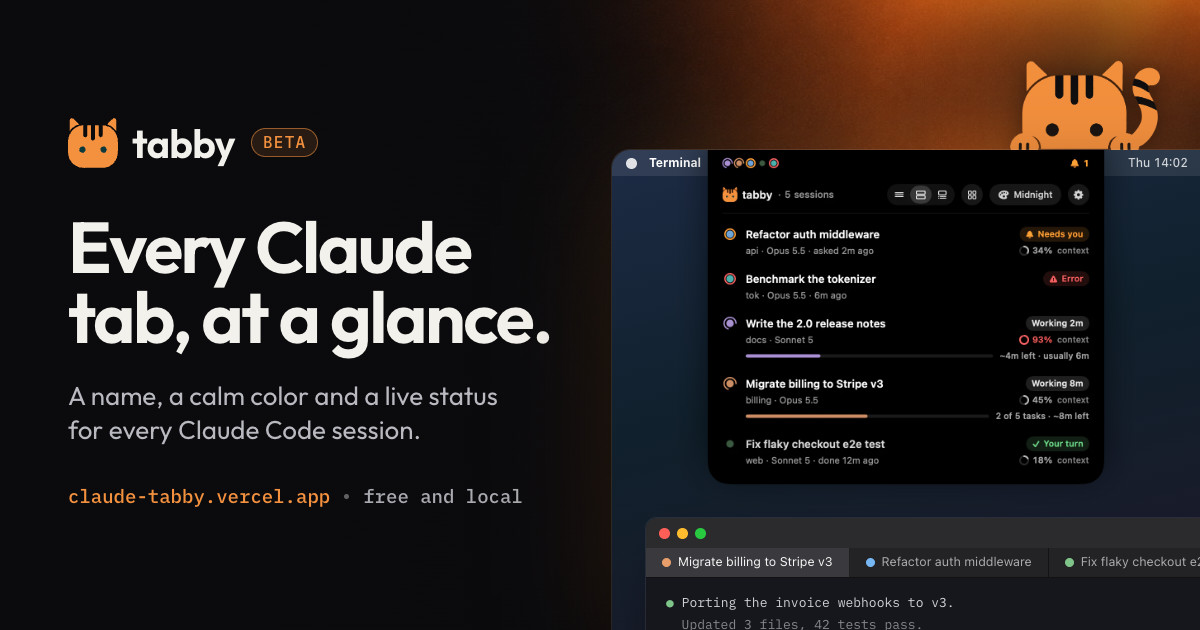
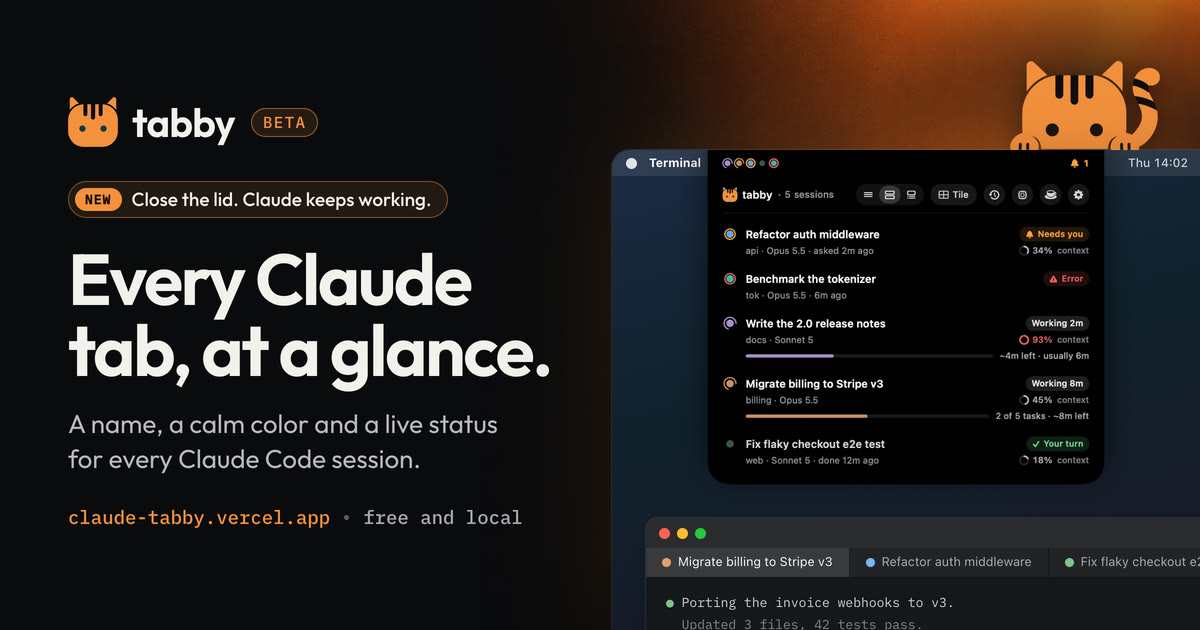
site: social card says what's new
Claude-Session: https://claude.ai/code/session_015b5oNbYrBUp2FJnxKCXLaE

diff --git a/site/index.html b/site/index.html
@@ -16,16 +16,16 @@
 <meta property="og:description" content="tabby is a free Claude Code plugin: an AI-written name, a calm color and a live status for every session, and a Mac island that shows them all. Close the lid and Claude keeps working. Runs on your machine.">
 <meta property="og:type" content="website">
 <meta property="og:url" content="https://claude-tabby.vercel.app/">
-<meta property="og:image" content="https://claude-tabby.vercel.app/assets/og.jpg?v=20261005a">
+<meta property="og:image" content="https://claude-tabby.vercel.app/assets/og.jpg?v=20261011a">
 <meta property="og:image:type" content="image/jpeg">
 <meta property="og:image:width" content="1200">
 <meta property="og:image:height" content="630">
-<meta property="og:image:alt" content="tabby (beta): Every Claude tab, at a glance. A Mac screen with Tabby Island open, listing five Claude Code sessions with their names, colors and status, above a Terminal window with named tabs; the tabby cat peeks over the screen.">
+<meta property="og:image:alt" content="tabby (beta): Every Claude tab, at a glance. New: close the lid, Claude keeps working. A Mac screen with Tabby Island open, listing five Claude Code sessions with their names, colors and status, above a Terminal window with named tabs; the tabby cat peeks over the screen.">
 <meta name="twitter:card" content="summary_large_image">
 <meta name="twitter:title" content="tabby: every Claude Code tab, at a glance">
 <meta name="twitter:description" content="tabby is a free Claude Code plugin: an AI-written name, a calm color and a live status for every session, and a Mac island that shows them all. Close the lid and Claude keeps working. Runs on your machine.">
-<meta name="twitter:image" content="https://claude-tabby.vercel.app/assets/og.jpg?v=20261005a">
-<meta name="twitter:image:alt" content="tabby (beta): Every Claude tab, at a glance. A Mac screen with Tabby Island open, listing five Claude Code sessions with their names, colors and status, above a Terminal window with named tabs; the tabby cat peeks over the screen.">
+<meta name="twitter:image" content="https://claude-tabby.vercel.app/assets/og.jpg?v=20261011a">
+<meta name="twitter:image:alt" content="tabby (beta): Every Claude tab, at a glance. New: close the lid, Claude keeps working. A Mac screen with Tabby Island open, listing five Claude Code sessions with their names, colors and status, above a Terminal window with named tabs; the tabby cat peeks over the screen.">
 <link rel="icon" href="/assets/favicon.svg?v=20260928a" type="image/svg+xml">
 <link rel="icon" href="/assets/favicon-32.png?v=20260928a" sizes="32x32" type="image/png">
 <link rel="icon" href="/assets/favicon-16.png?v=20260928a" sizes="16x16" type="image/png">

diff --git a/site/tools/og/og.html b/site/tools/og/og.html
@@ -18,9 +18,11 @@
   .og-brand { display: flex; align-items: center; gap: 14px; font-size: 40px; font-weight: 650; letter-spacing: -0.02em; line-height: 1; }
   .og-brand img { width: 50px; height: 50px; }
   .og-beta { margin-left: 2px; padding: 5px 11px 6px; border: 1.5px solid rgb(244 145 62 / 0.55); border-radius: 999px; background: rgb(244 145 62 / 0.12); color: var(--marmalade); font: 500 16px/1 var(--mono); letter-spacing: 0.08em; text-transform: uppercase; }
-  .og-title { margin: 44px 0 0; font-size: 72px; font-weight: 650; line-height: 0.98; letter-spacing: -0.035em; }
-  .og-sub { margin: 26px 0 0; max-width: 460px; font-size: 26px; line-height: 1.32; color: #b9bac0; }
-  .og-foot { display: flex; align-items: center; gap: 14px; margin-top: 40px; font: 500 19px/1 var(--mono); color: var(--marmalade); }
+  .og-new { display: inline-flex; align-self: flex-start; align-items: center; gap: 10px; margin-top: 34px; padding: 6px 16px 6px 6px; border: 1.5px solid rgb(244 145 62 / 0.45); border-radius: 999px; background: rgb(244 145 62 / 0.1); font: 500 19px/1.2 var(--display); color: var(--text); }
+  .og-new b { padding: 5px 10px; border-radius: 999px; background: var(--marmalade); color: #1a0e04; font: 600 13px/1 var(--mono); letter-spacing: 0.08em; text-transform: uppercase; }
+  .og-title { margin: 26px 0 0; font-size: 72px; font-weight: 650; line-height: 0.98; letter-spacing: -0.035em; }
+  .og-sub { margin: 22px 0 0; max-width: 460px; font-size: 26px; line-height: 1.32; color: #b9bac0; }
+  .og-foot { display: flex; align-items: center; gap: 14px; margin-top: 32px; font: 500 19px/1 var(--mono); color: var(--marmalade); }
   .og-foot i { width: 5px; height: 5px; border-radius: 50%; background: rgb(255 255 255 / 0.35); }
   .og-foot span + i + span { color: #a9aab0; }
 
@@ -50,6 +52,7 @@
   <div class="og-shade"></div>
   <div class="og-copy">
     <div class="og-brand"><img src="/assets/logo.svg" alt=""><span>tabby</span><span class="og-beta">beta</span></div>
+    <span class="og-new"><b>New</b>Close the lid. Claude keeps working.</span>
     <h1 class="og-title">Every Claude tab, at a&nbsp;glance.</h1>
     <p class="og-sub">A name, a calm color and a live status for every Claude Code session.</p>
     <div class="og-foot"><span>claude-tabby.vercel.app</span><i></i><span>free and local</span></div>
